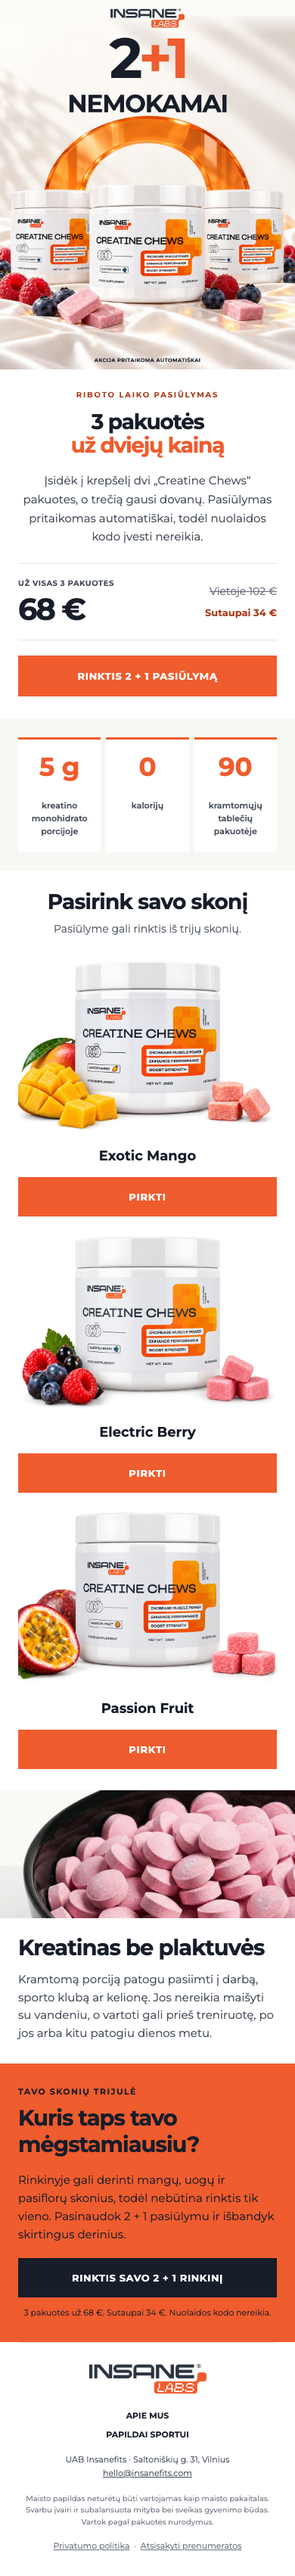
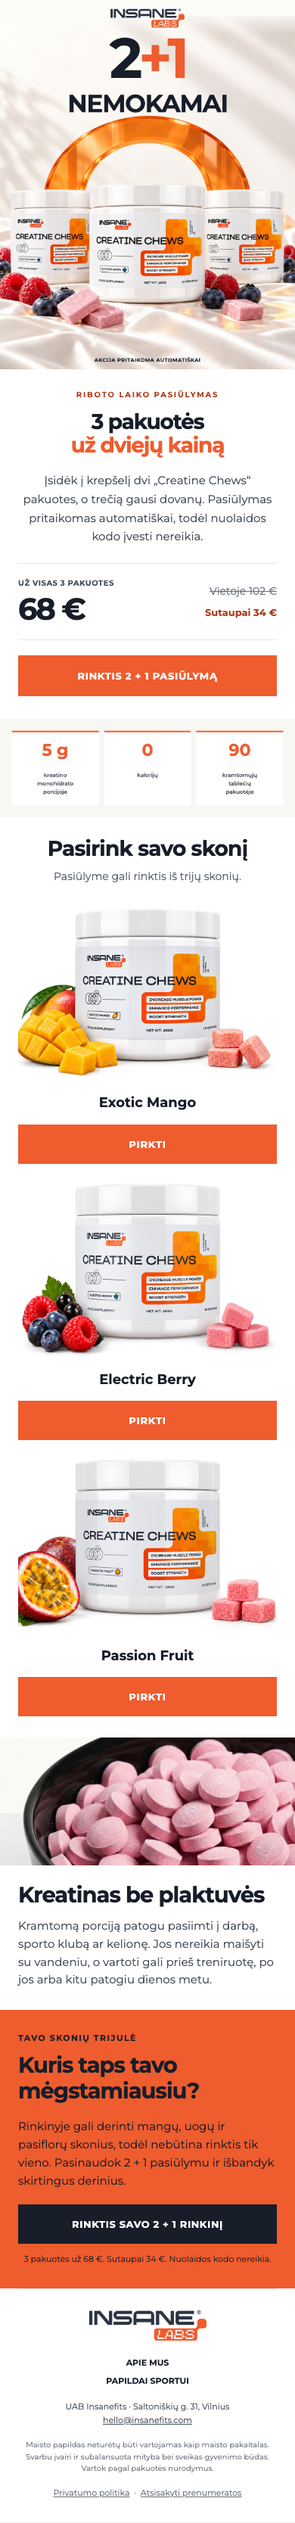
Render equal benefit cards as a single image to prevent mobile email layout changes

diff --git a/campaigns/2026-09/chews-2-plus-1-studio/newsletter.html b/campaigns/2026-09/chews-2-plus-1-studio/newsletter.html
@@ -86,23 +86,7 @@
           </td>
         </tr>
 
-        <tr><td class="pad" bgcolor="#f7f7f4" style="padding:24px;background:#f7f7f4;">
-          <table class="facts-grid" role="presentation" width="100%" cellpadding="0" cellspacing="0" border="0" style="width:100%!important;min-width:100%!important;table-layout:fixed!important;border-collapse:collapse;">
-<tr>
-<td class="fact-number" width="32%" height="76" align="center" valign="top" bgcolor="#ffffff" style="width:32%!important;font-family:Montserrat,Arial,sans-serif;box-sizing:border-box;text-align:center;vertical-align:top!important;background:#ffffff;height:76px;padding:14px 2px 0;border-top:3px solid #ef5c2e;font-size:34px;line-height:44px;font-weight:700;color:#ef5c2e;">5 g</td>
-<td width="2%" aria-hidden="true" style="width:2%!important;padding:0;font-size:0;line-height:0;">&nbsp;</td>
-<td class="fact-number" width="32%" height="76" align="center" valign="top" bgcolor="#ffffff" style="width:32%!important;font-family:Montserrat,Arial,sans-serif;box-sizing:border-box;text-align:center;vertical-align:top!important;background:#ffffff;height:76px;padding:14px 2px 0;border-top:3px solid #ef5c2e;font-size:34px;line-height:44px;font-weight:700;color:#ef5c2e;">0</td>
-<td width="2%" aria-hidden="true" style="width:2%!important;padding:0;font-size:0;line-height:0;">&nbsp;</td>
-<td class="fact-number" width="32%" height="76" align="center" valign="top" bgcolor="#ffffff" style="width:32%!important;font-family:Montserrat,Arial,sans-serif;box-sizing:border-box;text-align:center;vertical-align:top!important;background:#ffffff;height:76px;padding:14px 2px 0;border-top:3px solid #ef5c2e;font-size:34px;line-height:44px;font-weight:700;color:#ef5c2e;">90</td>
-</tr>
-<tr>
-<td class="fact-label" width="32%" height="74" align="center" valign="top" bgcolor="#ffffff" style="width:32%!important;font-family:Montserrat,Arial,sans-serif;box-sizing:border-box;text-align:center;vertical-align:top!important;background:#ffffff;height:74px;padding:4px 2px 12px;font-size:11px;line-height:17px;font-weight:600;color:#48505c;">kreatino<br>monohidrato<br>porcijoje</td>
-<td width="2%" aria-hidden="true" style="width:2%!important;padding:0;font-size:0;line-height:0;">&nbsp;</td>
-<td class="fact-label" width="32%" height="74" align="center" valign="top" bgcolor="#ffffff" style="width:32%!important;font-family:Montserrat,Arial,sans-serif;box-sizing:border-box;text-align:center;vertical-align:top!important;background:#ffffff;height:74px;padding:4px 2px 12px;font-size:11px;line-height:17px;font-weight:600;color:#48505c;">kalorijų</td>
-<td width="2%" aria-hidden="true" style="width:2%!important;padding:0;font-size:0;line-height:0;">&nbsp;</td>
-<td class="fact-label" width="32%" height="74" align="center" valign="top" bgcolor="#ffffff" style="width:32%!important;font-family:Montserrat,Arial,sans-serif;box-sizing:border-box;text-align:center;vertical-align:top!important;background:#ffffff;height:74px;padding:4px 2px 12px;font-size:11px;line-height:17px;font-weight:600;color:#48505c;">kramtomųjų<br>tablečių<br>pakuotėje</td>
-</tr>
-</table></td></tr>
+        <tr><td style="padding:0;background:#f7f7f4;"><img src="https://cdn.jsdelivr.net/gh/elaiskai/insanefits-email-assets@main/campaigns/2026-09/chews-2-plus-1-studio/assets/generated/chews-facts-equal-v2.png" width="600" height="200" alt="5 g kreatino monohidrato porcijoje · 0 kalorijų · 90 kramtomųjų tablečių pakuotėje" style="display:block;border:0;width:100%;max-width:600px;height:auto;"></td></tr>
 
         <tr>
           <td class="pad" bgcolor="#ffffff" style="padding:26px 24px 28px;background:#ffffff;">
